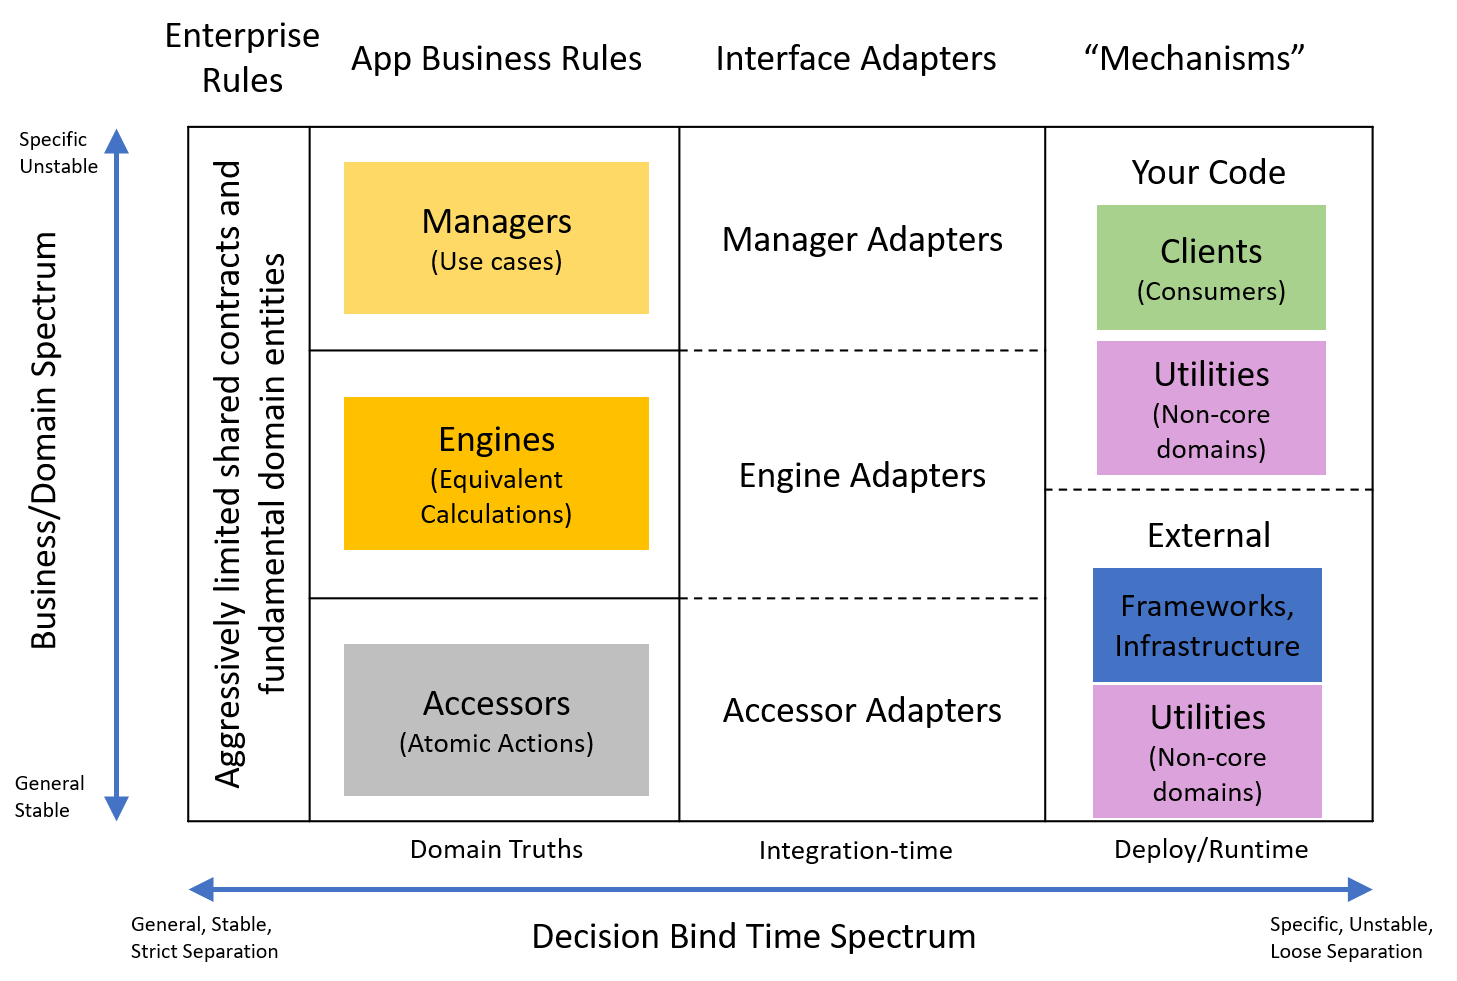
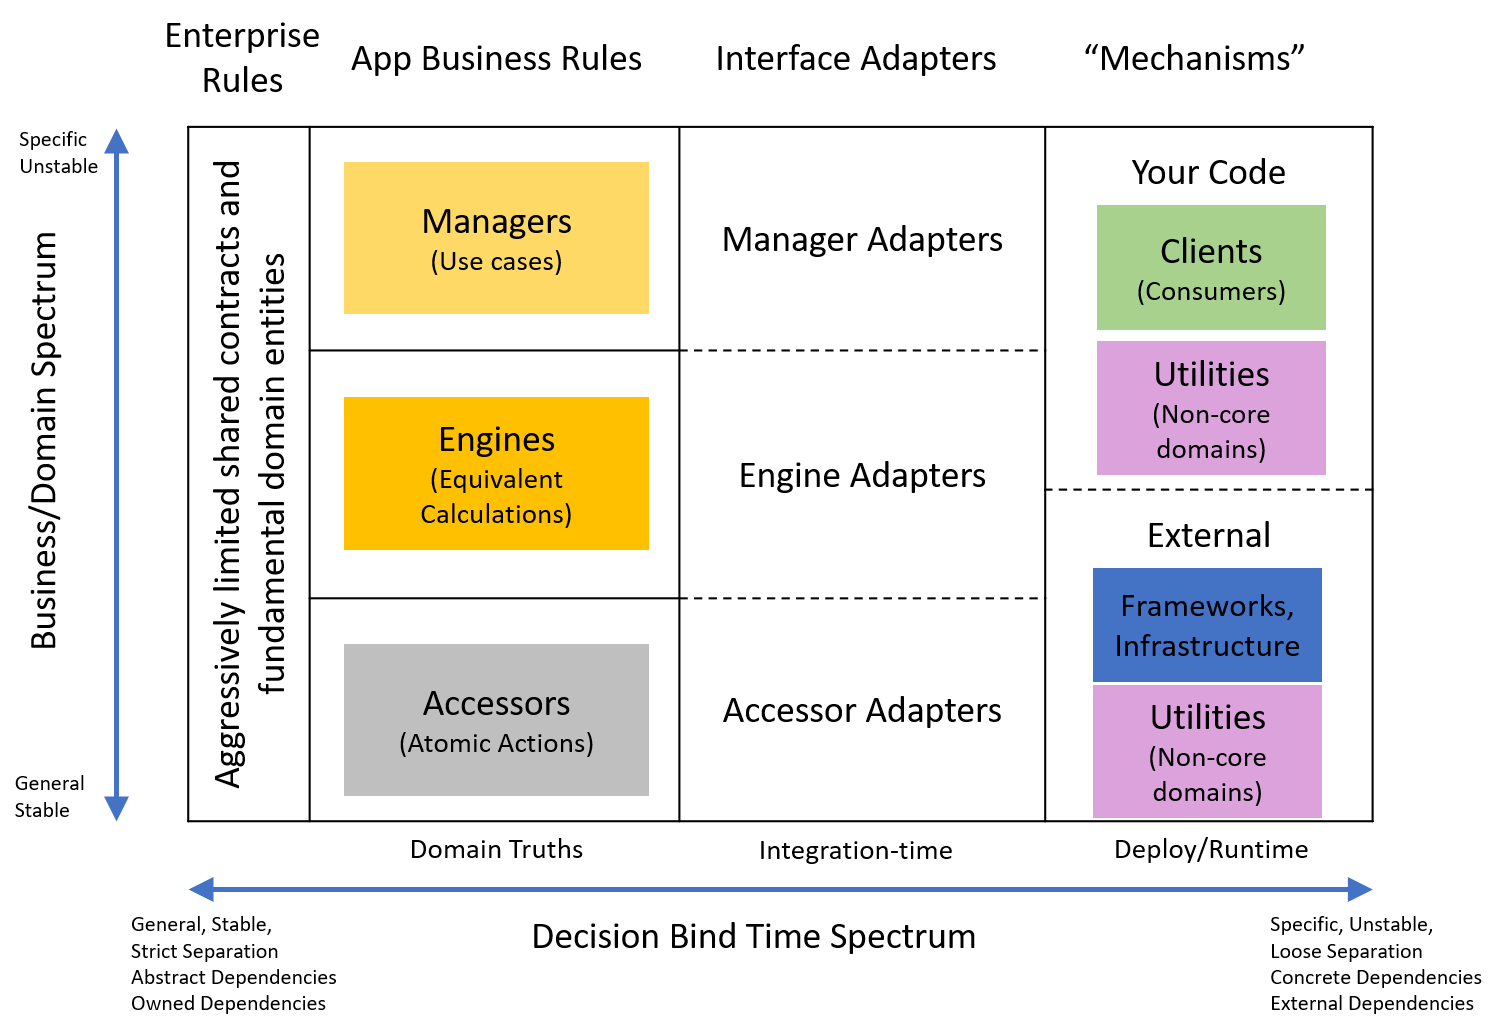
Heavily refactor and release the going fast post

diff --git a/_drafts/2020-11-20-PADL-Architecture.md b/_drafts/2020-11-20-PADL-Architecture.md
@@ -209,6 +209,11 @@ This is by no means the one true code organization. It is a set of smart default
 
 # V2
 
+```yml
+layout: post
+series: PADL
+```
+
 Architecture is hard. There are few well-perscribed methods and those that exist are complex to understand. I've been on a journey to combine two methods I enjoy: iDesign and Clean Architecture (or Ports and Adapters-type architecture). Here I'll boil them down to their essense and glue them together.
 
 In this post I'll try to firmly establish the most core ideas clearly. Focusing on the underlying nuggets also prevents me from exploring context-specific advice that helps build up practical understanding. So, we'll follow up with a post all about context-specific decisions and benefits. The overall goal is to lead into a working understanding of the more general ideas here by breaking out smaller scenarios. I call the sum of these context-specific guided processes PADL (Ports and Adapters with Domain Layers).
@@ -229,6 +234,7 @@ I think the first question is harder and more important. Given an answer to the 
 The core of Clean Architecture is a plug-in extensibility. That extensibility comes from one key mechanism
 
 > Components own the definitions for how they can be extended
+<!-- Components define their own mechanisms for extension, and on their own terms? -->
 
 I like the ports and adapters analogy because I think it strikes at the core mechanism. Our current component should define "ports" that expose how the current component can be extended. Other components fit into those ports by using adapters.
 
@@ -278,3 +284,77 @@ I went to the extreme and said everything should be selfish, but there is a poin
 ## Summary
 
 Combining the core mechanism of Ports and Adapters with iDesign domain layers gives us strong guidance for shaping systems. The selfish ports keep components independent and composable. The domain layers help us evolve the adapters into organized services of their own.
+
+
+```yml
+layout: post
+tags: [PADL, Ports and Adapters, Architecture]
+series: PADL
+```
+# Dependencies and Bind-times in layered architectures
+
+Clean Architecture, Onion Architecture, and Hexagonal Archicture talk about how dependencies can only point inward. This is ... true, but a bit confusing. Let's clear it up by elaborating on types of dependencies and how they affect when descisions are made.
+
+## Concrete vs Abstract Dependencies
+For reference on what "in means" here are some diagrams of the previously mentioned architectures
+![Clean Architecture]()  ![Onion Architecture]() ![Hexagonal Architecture]()
+
+Essentially, the inner most layer is your core domain, outer layers are external resources (e.g databases, users, other systems), and middle layers are ways of mapping between the domain and outer layers.
+
+*Concrete* dependencies only point in. The outer layers contain references to the assemblies, namespaces, types, and other constructs of the inner layers. 
+
+I always found this a bit hard to understand, since my workflows appear to have the most dependencies. Managers (the high-level workflows) certainly inject the most dependencies of any component type. But there is a key word there, *inject*.
+
+While *concrete* dependencies point in, *abstract* dependencies point out. The inner domain layers have lots of dependencies, but it owns the abstractions for them and relies on some concrete consumer to fulfil them.
+
+## Bind-time flexibility
+
+This strict opposing flow of abstract and concrete dependency has powerful consequences. It creates a predictable stratefication (aka layering) of when certain kinds of decisions are bound.
+- Domain layer: 
+  - binds the most stable and fundamental truths about the domain
+  - never binds volatile concerns like frameworks, data schemas
+- Adapter layers:
+  - binds our *option set* for concrete implementations (e.g. each determines a framework, system, schema, or other details to implement the domain dependency)
+- Outer layer
+  - binds the concrete mix of implementations to be used in deployment
+
+Seen another way
+- Domain layer -> business decisions
+- Adapter layers -> implementation choices
+- Outer layer -> deployment decisions
+
+## What about domain divisions?
+
+The dependency rules of the above architectures push systems that are very flexible under different deployment, resource, or service compositions. This plug-in style enables flexiblity independent of the software domain. 
+
+Still, domains can be very complex. It is useful to have rules of thumb that highlight when it is time to split off responsiblities in the domain. I work to combine these two concerns with [PADL](). The short version for domain layering is
+  - managers are business workflows, and where each use-case starts
+  - repeated domain operations are Engines
+  - repeated domain entities belong to Accessors
+  - repeated non-domain operations are Utilities
+
+The top level managers can be split up per DDD guidelines for sub-domains. That is, sub-domains are gernerally identifiable by how the business splits itself into teams. 
+
+Here's a graphic I made for PADL. It depicts both bind-time layering and layering of domain activites
+![PADL bind-time]()
+
+
+```yml
+layout: post
+tags: []
+series: PADL
+```
+# Contextual Architecture Guidance: Integration and Layering
+- further guidance on how layers do and don't interact with each other
+- really focus on the adapt to integrate here
+
+# Contextual Architecture Guidance: File organization
+project boundaries, use of namespaces 
+
+# Contextual Architecture Guidance: Cross-Cutting Concerns
+ripped from above
+
+# Contextual Architecture Guidance: Accessors
+probably a refinement of the services not servants post
+
+

diff --git a/_posts/2021-01-29-Going-Fast-is-Going-Well.md b/_posts/2021-01-29-Going-Fast-is-Going-Well.md
@@ -1,0 +1,47 @@
+---
+layout: post
+tags: []
+---
+
+# Going Fast is Going Well
+
+I want to directly address the idea that moving quickly means bad code. The opposite is also not heavy design process. To go fast is to go well, and that means fast incremental design.
+
+## Design Stamina
+It's generally accepted that bad code slows you down, eventually. The [design stamina hypothesis](https://www.martinfowler.com/bliki/DesignStaminaHypothesis.html) represents the general relationship well. 
+
+<figure class="image">
+  <img src="https://www.martinfowler.com/bliki/images/designStaminaGraph.gif" alt="Design Stamina Hypothesis">
+  <figcaption>Source: https://www.martinfowler.com/bliki/images/designStaminaGraph.gif</figcaption>
+</figure>
+
+I believe the trade-off happens very fast. The first time you have to rip out code you're both throwing away the previous work, adding work to remove it, and doing the new work. The more thrown-together code you have the more frequent and complex these challenges become.
+
+## Increments of Progress
+I think the issue stems from a false belief that progress is only made in terms of code.
+
+Production software is the most expensive, slowest, and hardest to change deliverable you can produce to get feedback from the customer.
+
+I see it this way
+- Progress is about building something of value to your customer
+- Building something of value requires understanding what your customer needs
+- Understanding needs requires feedback from your customer
+
+Thus, the speed limiter is how tight of a feedback loop you have with your customer, and progress is measured in understanding of the problem.
+
+![spectrum image?](../post-media/Going-Fast/spectrum.png)
+
+The fastest scenario is that you *are* your customer and you are constantly feeding backing into the development process. Still fast is that you can contact your customer whenever questions come up and work through a decision with them.
+
+These increments should also be focused. We want to push off decisions until we need them to make other decisions. Narrowing our view at each step limits decisions, resulting in fast iterations which all together reach a solution faster. 
+
+Code is a slow. Jumping straight to full stack development is throwing out incremental progress and saying the next step the customer can give feedback to is a working feature.
+
+Less intensive products like mocks, UI-prototypes, BDD-requirements, and domain models refine the problem understanding but are much faster than code. 
+
+> "A few weeks of programming can save you hours of planning" -Scott Wlaschin
+
+Even when coding starts, incremental development is driven by good practices. Methods like [ports and adapters](https://en.wikipedia.org/wiki/Hexagonal_architecture_(software)), [Clean Architecture](https://blog.cleancoder.com/uncle-bob/2012/08/13/the-clean-architecture.html), and [DDD](https://www.dddcommunity.org/learning-ddd/what_is_ddd/) keep structures flexible by starting with the underlying problem model and pushing details like storage and data schema down the line.
+
+## Summary
+If you want to go fast, invest in your customer reps and incremental design. Cutting corners on code will only slow you down.
